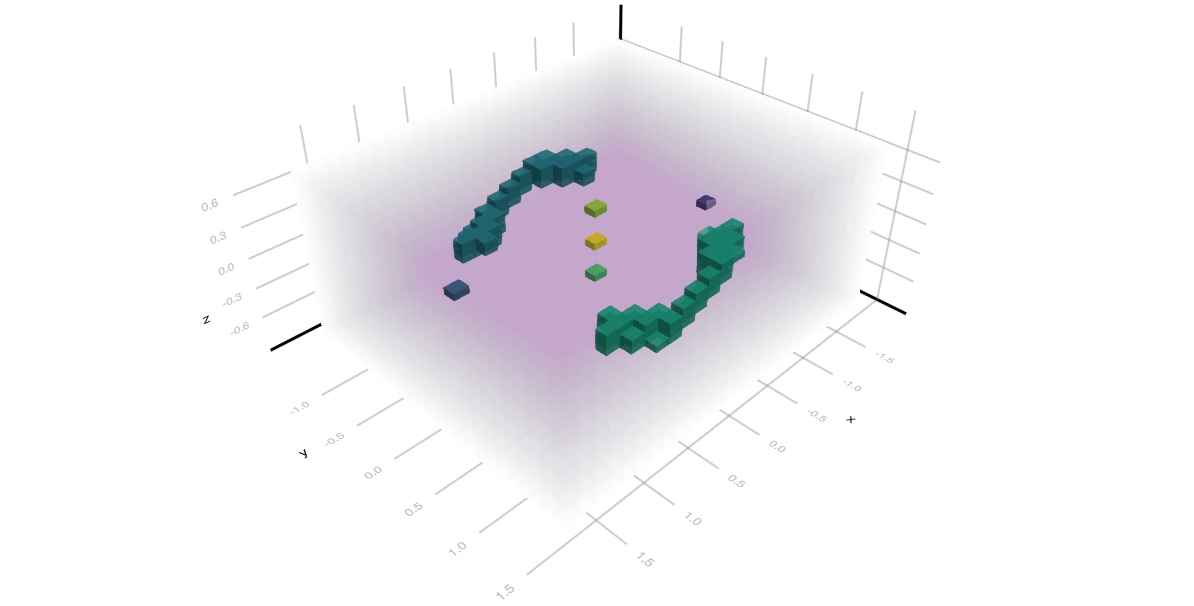
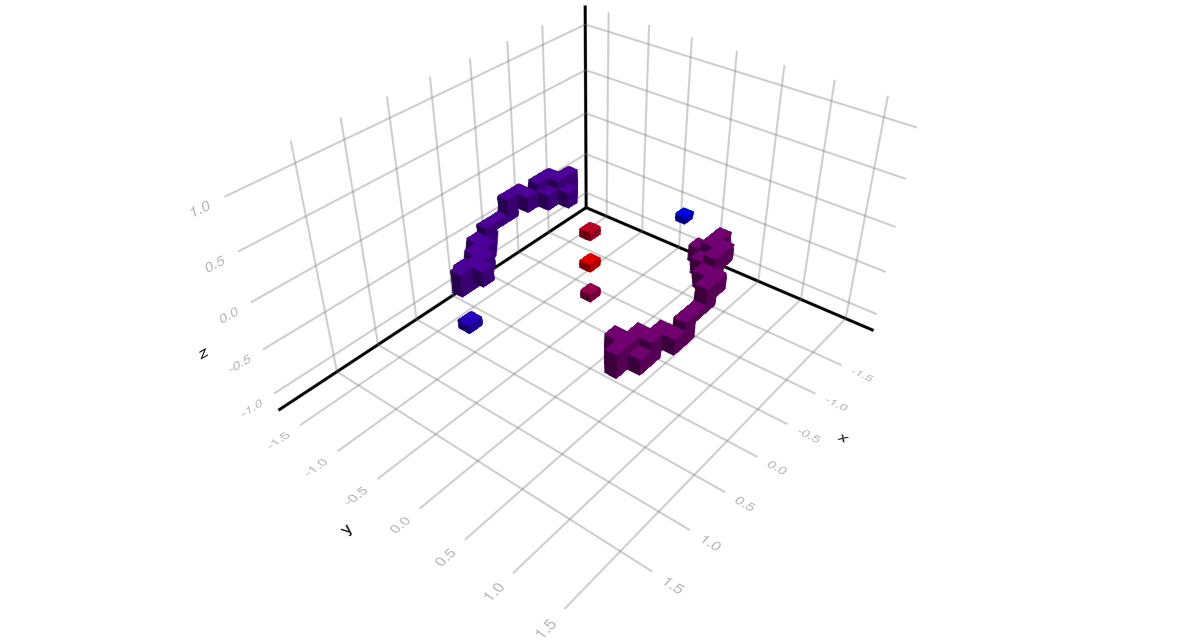
updated 3d Allen-Cahn image

diff --git a/docs/src/man/conley.md b/docs/src/man/conley.md
@@ -450,14 +450,14 @@ commands
 
 ```julia
 N = 25
-bmax = [1.8, 1.5, 0.8]
+bmax = [1.8, 1.5, 1.0]
 lc, coordsI = create_cubical_box(N,N,N);
 coordsN = convert_spatial_coordinates(coordsI, -bmax, bmax);
 mvf = create_spatial_mvf(lc, coordsN, allencahn3d);
 ```
 
 These commands create a cubical box of size ``25 \times 25 \times 25``
-which covers the region ``[-1.8,1.8] \times [-1.5,1.5] \times [-0.8,0.8]``.
+which covers the region ``[-1.8,1.8] \times [-1.5,1.5] \times [-1.0,1.0]``.
 In addition, we construct a multivector field `mvf` which encapsulates
 the possible dynamics of the system. After these preparations, the Morse
 decomposition can be computed via
